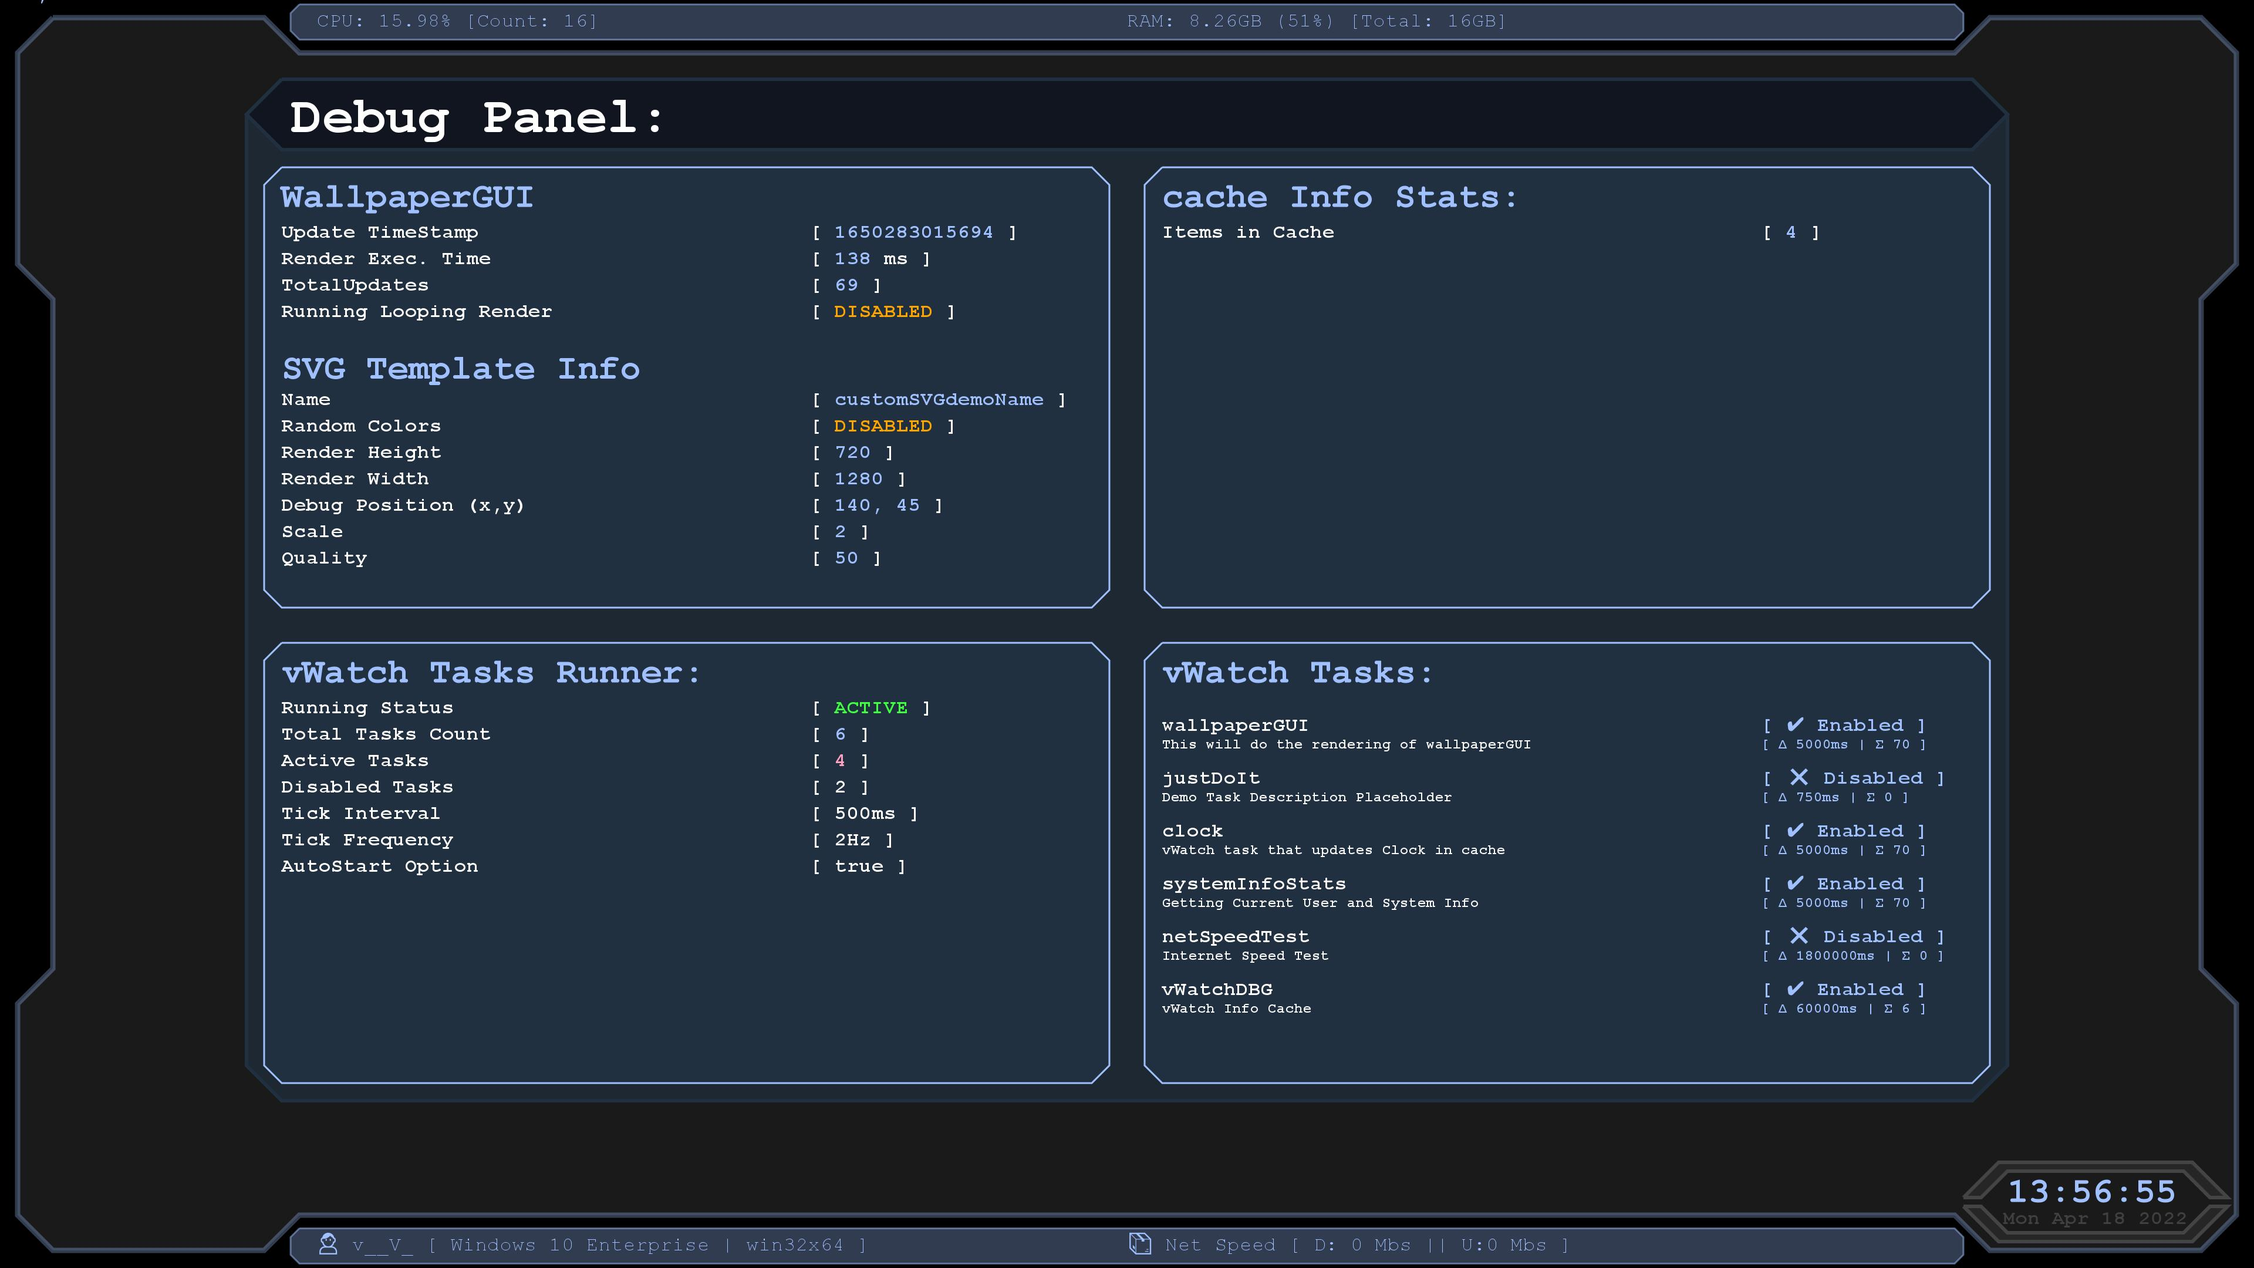
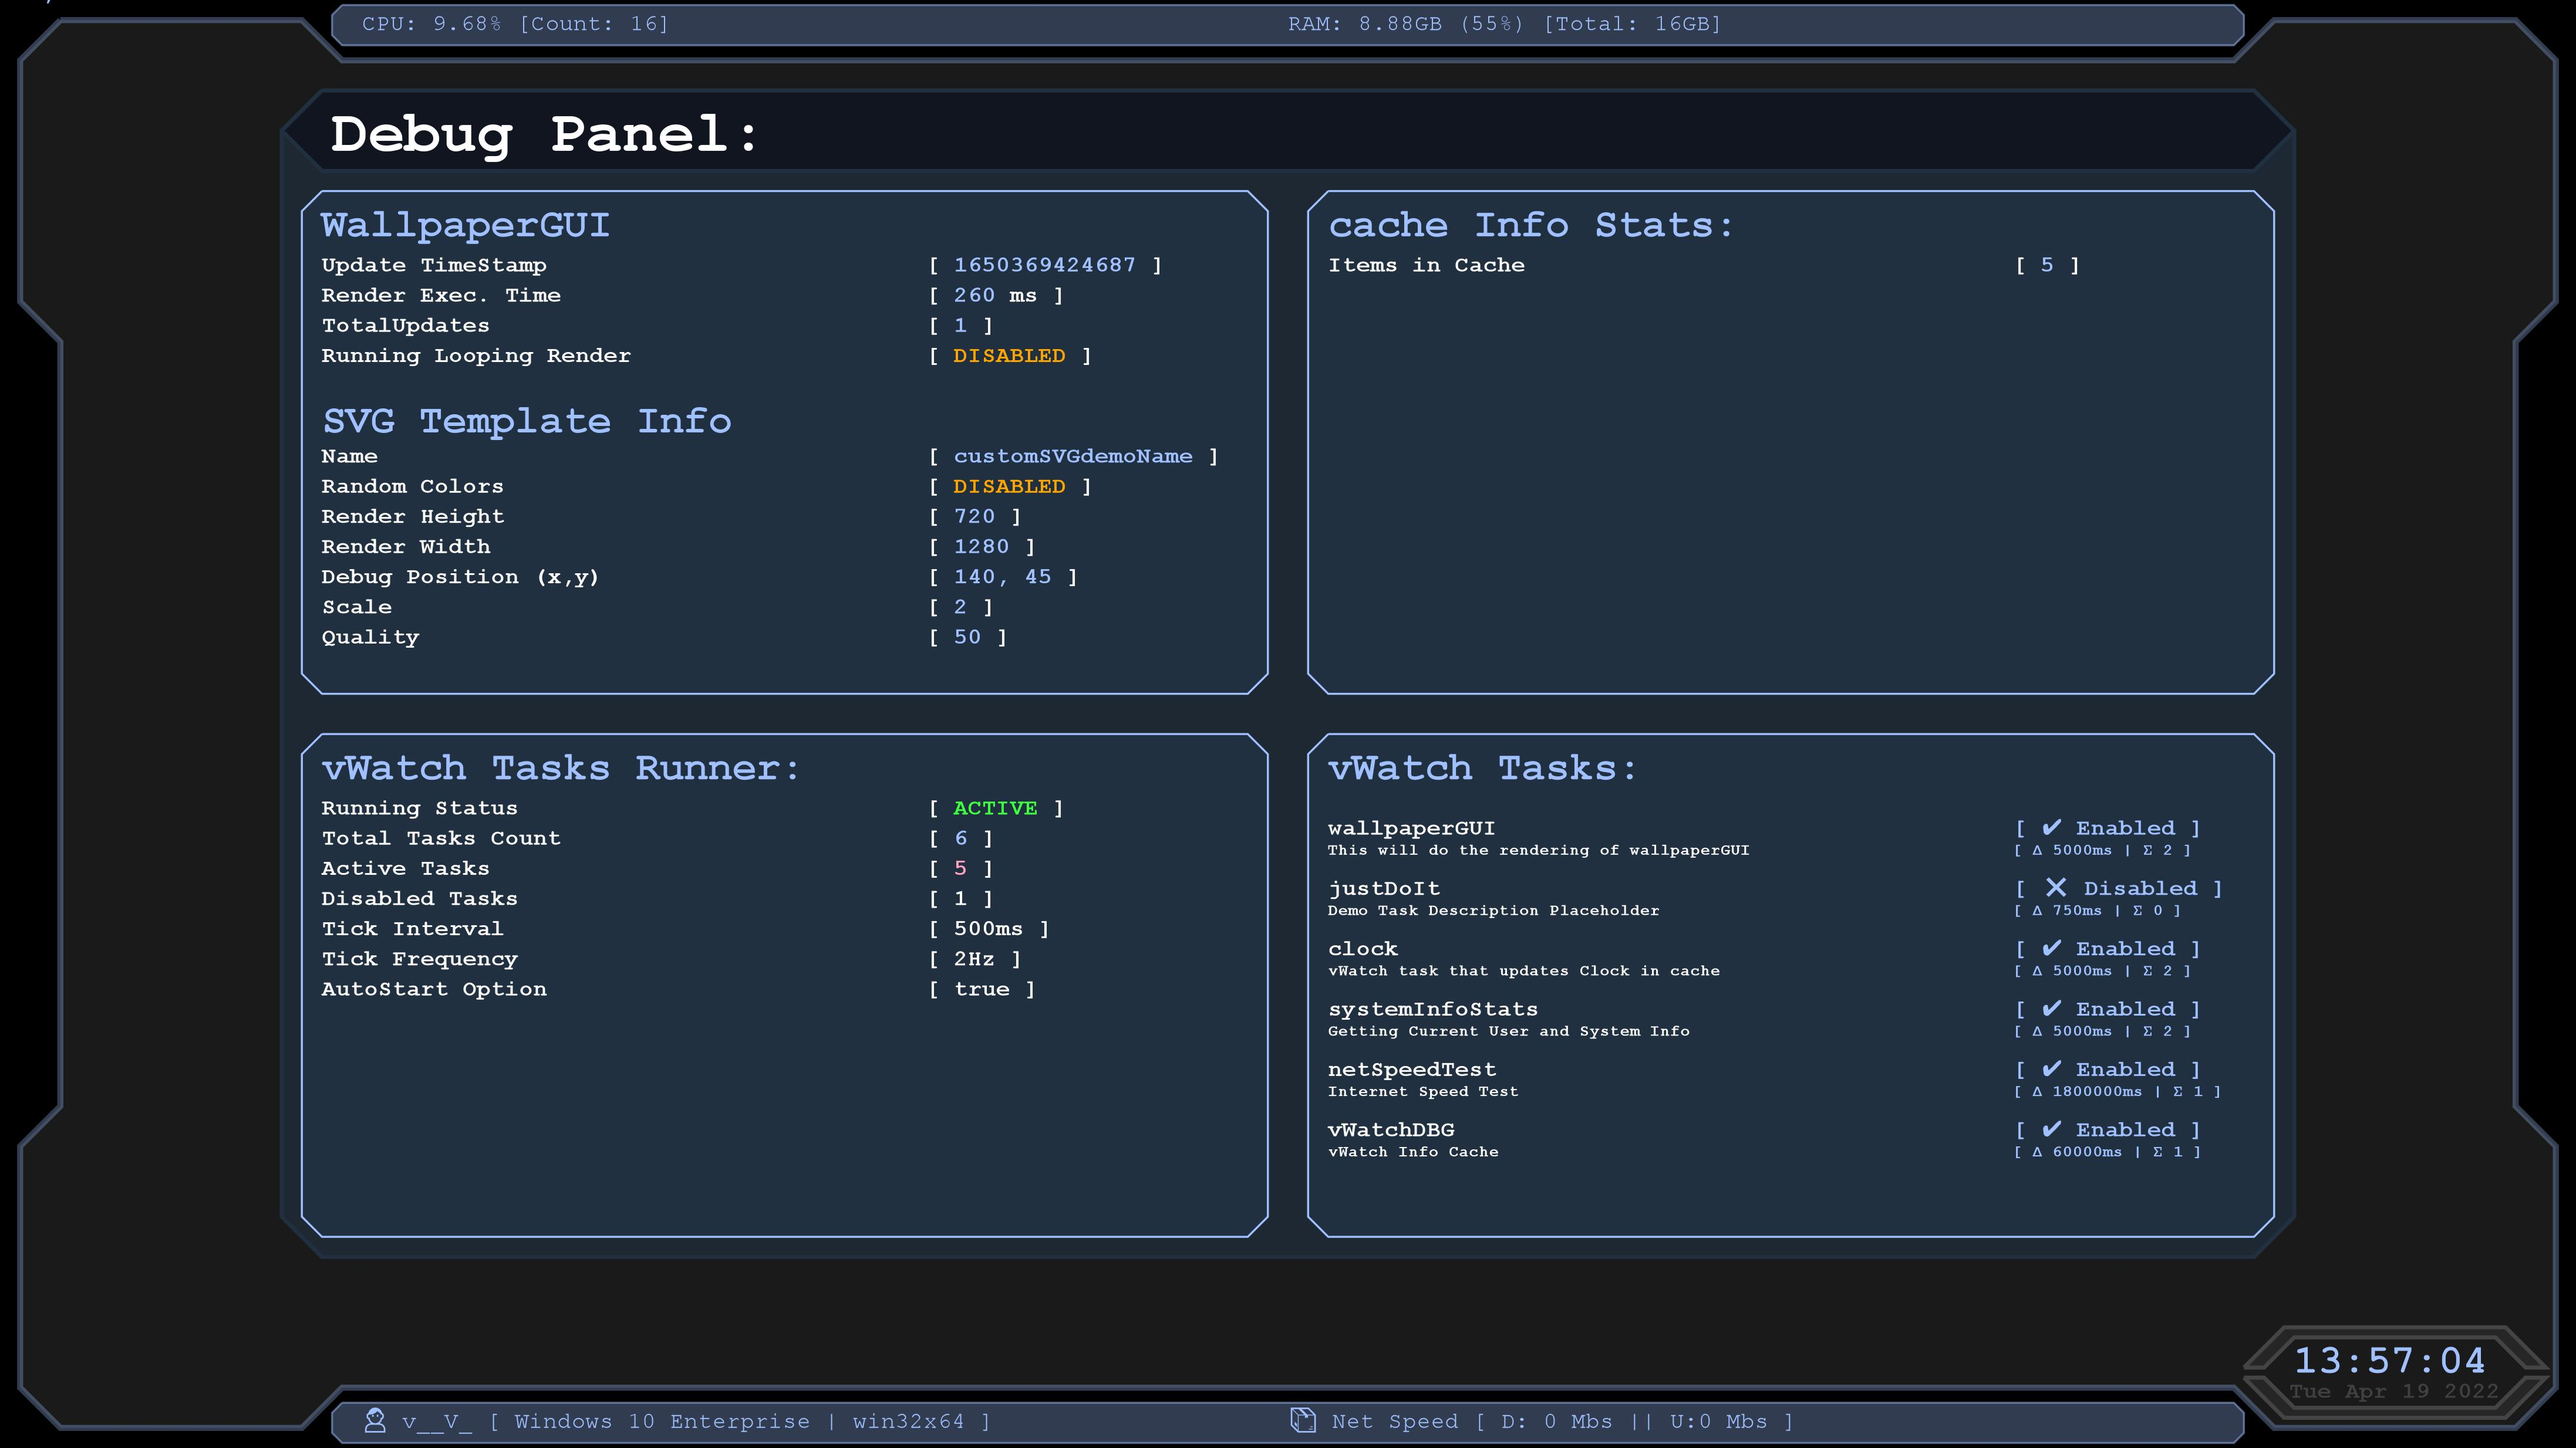
yea things :D

diff --git a/source/wallpaperGUI/template.js b/source/wallpaperGUI/template.js
@@ -17,6 +17,17 @@ function svgTemplate(data = {}) {
   };
 
 
+  const randomColors = async () => {
+    try {
+      this.main = getRandomColor();
+      this.background = getRandomColor();
+      this.containerBackground = getRandomColor();
+      return true;
+    } catch (error) {
+      return error;
+    }
+  };
+
   this.name = data.name || "customSVGdemoName";
   this.white = data.white || "#ffffff";
   this.main = data.main || "#a0c0ff";
@@ -74,7 +85,7 @@ function svgTemplate(data = {}) {
 
 
   this.render = async () => {
-    if (this.useRandomColors) this.randomColors();
+    if (this.useRandomColors) await randomColors();
 
     this.cacheData = {
       clock: await cache.get('clock') || { strTime: "", datePrint: "" },
@@ -87,13 +98,13 @@ function svgTemplate(data = {}) {
     //console.log(this.cacheData);
 
     return `<svg xmlns="http://www.w3.org/2000/svg" viewBox="0 0 ${this.helperWidth} ${this.helperHeight}"  height="${this.helperHeight}" width="${this.helperWidth}" class="${this.name}"  shape-rendering="geometricPrecision" >
-              ${await this.bckLayerNew()}
+              ${await this.bckLayer()}
               ${await this.printOsInfo()}
               ${await this.printBotStats()}
               ${await this.printClock()}
-              ${await this.extendedInfoPanel()}
+              ${(config.extendedInfo) ? await this.extendedInfoPanel() : ''}
 
-              ${await this.debug()}
+              ${(config.debug) ? await this.debug() : `${await draw.text(1125, 25, `<text fill="${this.main}">${this.cacheData.svgStats.lastExecTimeVal}</text>ms | ${this.cacheData.svgStats.totalUpdates} @ ${this.cacheData.svgStats.scale}`, this.white, this.normalFontSize)}`}
             </svg>`;
 
   };
@@ -130,43 +141,14 @@ function svgTemplate(data = {}) {
   };
 
 
+
   this.bckLayer = async () => {
-    return `<path d="M 0 0 l ${this.helperWidth}  0 0 ${this.helperHeight} -${this.helperWidth} 0 -${this.helperWidth} -${this.helperHeight} " stroke="none" stroke-width="${this.strokeWidth}" fill="#000" ></path>
-            <path d="M 0 0 l ${this.helperWidth} 0 0 60 -20 20 0 ${(this.helperHeight - 180)}  20 20 0 60 -20 20 -160 0 -20 -20${-(this.helperWidth - 400)}  0 -20 20 -160 0 -20 -20 0 -60 20 -20 0 ${-(this.helperHeight - 280)}  -20 -20" stroke="none" stroke-width="${this.strokeWidth}" fill="${this.containerBackground}" ></path>
-            <path d="M 10 ${(this.helperHeight - 30)}  l  20 20 140 0 20 -20 -10 0 -15 15 -130 0 -15 -15" stroke="none" stroke-width="${this.strokeWidth}" fill="${this.background}" ></path>
-            <path d="M ${(this.helperWidth - 190)}  ${(this.helperHeight - 30)}  l  20 20 140 0 20 -20 -10 0 -15 15 -130 0 -15 -15" stroke="none" stroke-width="${this.strokeWidth}" fill="${this.background}" ></path>`;
-  };
-
-
-  this.bckLayerNew = async () => {
     return `<path d="M 0 0 l ${this.helperWidth}  0 0 ${this.helperHeight} -${this.helperWidth} 0 -${this.helperWidth} -${this.helperHeight} " stroke="none" stroke-width="${this.strokeWidth}" fill="#000" ></path>
             <path d="M 30 10 l 120 0 20 20 ${this.helperWidth - 340} 0 20 -20 120 0 20 20 0 120 -20 20 0 ${this.helperHeight - 340} 20 20 0 120 -20 20 -120 0 -20 -20 -${this.helperWidth - 340} 0 -20 20 -120 0 -20 -20 0 -120 20 -20 0 -${this.helperHeight - 340} -20 -20 0 -120 20 -20" stroke="${this.main}50" stroke-width="${this.strokeWidth}" fill="${this.containerBackground}50" ></path>`;
   };
 
 
-  // This is from the OLD thing where I used the original as a sample based SVG UI
-  this.minimizeButton = () => {
-    return `<path d="M ${(this.helperWidth - 70)}  0 l 40 0 -10 30 -40 0 10 -30" stroke="none" stroke-width="${this.strokeWidth}" fill="#333333" ></path>
-            <path d="M ${(this.helperWidth - 62)}  20 l 15 0 0 2 -15 0" stroke="none" stroke-width="${this.strokeWidth}" ></path>`;
-  };
 
-
-  this.printCloseButton = () => {
-    return `<path d="M ${(this.helperWidth - 30)}  0 l 30 0 0 30 -40 0 10 -30" stroke="none" stroke-width="${this.strokeWidth}" fill="#3a0000" ></path>
-            <path d="M ${(this.helperWidth - 22)}  7 l 2 0 5 5 5 -5 2 0 0 2 -5 5 5 5 0 2 -2 0 -5 -5 -5 5 -2 0 0 -2 5 -5 -5 -5" stroke="none" stroke-width="${this.strokeWidth}" fill="gray" ></path>`;
-  };
-
-
-  this.randomColors = () => {
-    try {
-      this.main = getRandomColor();
-      this.background = getRandomColor();
-      this.containerBackground = getRandomColor();
-      return true;
-    } catch (error) {
-      return error;
-    }
-  };
 
 
   this.placeholder = async () => {
@@ -273,67 +255,52 @@ function svgTemplate(data = {}) {
 
 
   this.debug = async () => {
-    if (config.debug) {
-
       // <path d="M 0 0 l 1280 0   0 720   -1280 0   0 -720" stroke="${this.main}40" stroke-width="6" fill="#000000A0" stroke-dasharray="10 5"></path>
 
-      return `<g font-family="monospace" fill="#000000" stroke="1"  >
-
-                <path d="M ${this.helpDim.X} ${this.debugY} l 960 0 20 20 0 540 -20 20 -960 0 -20 -20 0 -540 20 -20" stroke="#203040" stroke-width="2" fill="#203040A0" ></path>
+      return `  <path d="M ${this.helpDim.X} ${this.debugY} l 960 0 20 20 0 540 -20 20 -960 0 -20 -20 0 -540 20 -20" stroke="#203040" stroke-width="2" fill="#203040A0" ></path>
                 <path d="M ${this.helpDim.X} ${this.debugY} l 960 0 20 20  -20 20 -960 0 -20 -20 20 -20" stroke="#203040" stroke-width="2" fill="#101520" ></path>
                 ${await draw.text(this.helpDim.X + 5, this.helpDim.Y, "Debug Panel:", this.white, this.mainFontSize)}
 
                 ${await this.wallGuiDBG()}
                 ${await this.cacheDBG()}
                 ${await this.vWatchDBG()}
-                ${await this.placeholder()}
-              </g>`;
-    }
-    return `${await draw.text(1130, 20, `[ <text fill="${this.main}">${this.cacheData.svgStats.lastExecTimeVal}</text> ms | ${this.cacheData.svgStats.totalUpdates} @ ${this.cacheData.svgStats.scale} ]`, this.white, this.normalFontSize)}`;
+                ${await this.placeholder()}`;
   };
 
 
+  this.renderEIP = async () => {
+    return `
+              <path d="M 35 15 l 110 0  20 20   -130 130  -20 -20  0 -110  20 -20" stroke="${this.main}" stroke-width="1" fill="#101520" ></path>
+              ${await draw.text(35, 40, "💻 EIP#1", this.white, this.subFontSize)}
+
+              <path d="M 35 705 l 110 0   20 -20   -130 -130  -20 20   0 110   20 20" stroke="${this.main}" stroke-width="1" fill="#101520" ></path>
+              ${await draw.text(35, 695, "💻 EIP#2", this.white, this.subFontSize)}
+
+              <path d="M 1135 15 l 110 0   20 20   0 110   -20 20   -130 -130  20 -20" stroke="${this.main}" stroke-width="1" fill="#101520" ></path>
+              ${await draw.text(1140, 40, "💻 EIP#3", this.white, this.subFontSize)}
+
+              <path d="M 1135 705 l 110 0   20 -20   0 -110 -20 -20 -130 130  20 20 " stroke="${this.main}" stroke-width="1" fill="#101520" ></path>
+              ${await draw.text(1140, 695, "💻 EIP#4", this.white, this.subFontSize)}
+
+              <path d="M 5 145 l   25 25   0 380   -25 25   0 -430  " stroke="${this.main}" stroke-width="1" fill="#101520" ></path>
+              ${await draw.text(10, 185, "🆒", this.main, this.normalFontSize)}
+
+              <path d="M 1275 145 l   -25 25   0 380   25 25   0 -430  " stroke="${this.main}" stroke-width="1" fill="#101520" ></path>
+              ${await draw.text(1255, 545, "🆓", this.main, this.normalFontSize)}
+
+        `;
+
+  };
 
   this.extendedInfoPanel = async () => {
+    let item = await cache.get('ExtendedInfoPanel');
 
-    return (config.extendedInfo) ? `
-              <g >
-                <path d="M 35 15 l 110 0  20 20   -130 130  -20 -20  0 -110  20 -20" stroke="${this.main}" stroke-width="1" fill="#101520" ></path>
-                ${await draw.text(35, 40, "💻 EIP#1", this.white, this.subFontSize)}
+    if (item === undefined) {
+      item = await this.renderEIP();
+      await cache.set('ExtendedInfoPanel', item);
+    }
 
-              </g>
-
-
-              <g>
-                <path d="M 35 705 l 110 0   20 -20   -130 -130  -20 20   0 110   20 20" stroke="${this.main}" stroke-width="1" fill="#101520" ></path>
-                ${await draw.text(35, 695, "💻 EIP#2", this.white, this.subFontSize)}
-              </g>
-
-
-              <g>
-                <path d="M 1135 15 l 110 0   20 20   0 110   -20 20   -130 -130  20 -20" stroke="${this.main}" stroke-width="1" fill="#101520" ></path>
-                ${await draw.text(1140, 40, "💻 EIP#3", this.white, this.subFontSize)}
-              </g>
-
-
-              <g>
-                <path d="M 1135 705 l 110 0   20 -20   0 -110 -20 -20 -130 130  20 20 " stroke="${this.main}" stroke-width="1" fill="#101520" ></path>
-                ${await draw.text(1140, 695, "💻 EIP#4", this.white, this.subFontSize)}
-              </g>
-
-
-              <g>
-                <path d="M 5 145 l   25 25   0 380   -25 25   0 -430  " stroke="${this.main}" stroke-width="1" fill="#101520" ></path>
-                ${await draw.text(10, 185, "🆒", this.main, this.normalFontSize)}
-              </g>
-
-
-              <g>
-                <path d="M 1275 145 l   -25 25   0 380   25 25   0 -430  " stroke="${this.main}" stroke-width="1" fill="#101520" ></path>
-                ${await draw.text(1255, 545, "🆓", this.main, this.normalFontSize)}
-              </g>
-
-              ` : ``;
+    return item;
   };
 
 

diff --git a/source/tasks/index.js b/source/tasks/index.js
@@ -54,7 +54,7 @@ module.exports = sysTasks = async () => {
 
   //* Internet Speed Test
   await vWatch.newTask("netSpeedTest", vTime.minutes(30), netSpeedTest, "Internet Speed Test");
-  await vWatch.disableTask("netSpeedTest");
+  //await vWatch.disableTask("netSpeedTest");
 
 
 
